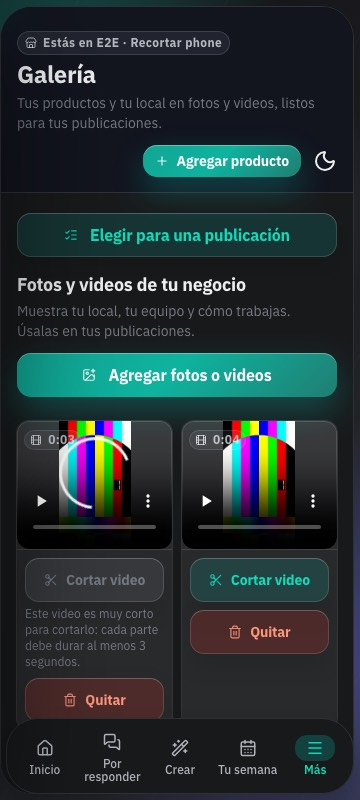
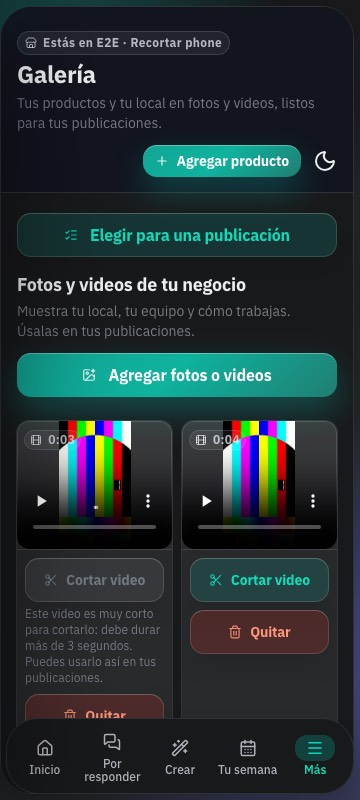
fix(galeria): apply reviews — half a second to leave out, the reason says what to do, singular stages for a trim (m-24976897)
UX review: a clip is cuttable from 3.5 s (one 3 s part plus half a second out),
so a tile reading 0:03 is never cuttable and 0:04 always is; the disabled reason
says it can still be used as is; an unknown length says so instead of «muy
corto»; the cutter's minimum names what may be shorter. Code review: a trim's
stages read in the singular; no empty aria-describedby.

diff --git a/Qualify/catalog_gallery_vm.py b/Qualify/catalog_gallery_vm.py
@@ -66,8 +66,11 @@ from qualify_creative.video import is_video_filename
 
 __all__ = [
     "ADD_LABEL",
+    "MIN_TRIM_MS",
+    "NO_LENGTH_TO_CUT_TEXT",
     "TOO_SHORT_TO_CUT_TEXT",
     "can_cut",
+    "cut_reason",
     "CUT_FAILED_NOTICE",
     "CUT_LEAVE_OK",
     "CUT_RETRY",
@@ -115,16 +118,30 @@ __all__ = [
 ]
 
 #: m-24976897: why «Cortar video» is disabled on a video that is too short to keep a
-#: part and leave something out (the minimum is the service's: `MIN_PART_MS`).
+#: part and leave something out (the minimum is the service's: `MIN_PART_MS`), and what
+#: the owner can still do with it (UX review).
 TOO_SHORT_TO_CUT_TEXT = (
-    f"Este video es muy corto para cortarlo: cada parte debe durar al menos "
-    f"{MIN_PART_MS // 1000} segundos."
+    f"Este video es muy corto para cortarlo: debe durar más de {MIN_PART_MS // 1000} "
+    "segundos. Puedes usarlo así en tus publicaciones."
 )
+NO_LENGTH_TO_CUT_TEXT = "No pudimos leer cuánto dura este video, por eso no se puede cortar."
+#: At least this much to leave out beyond one minimum part: half a second, so a clip
+#: that can be cut always reads «0:04» or more on its tile and one that cannot reads
+#: «0:03» (UX review: two «0:03» tiles, one cuttable, was a riddle), and the line — which
+#: moves a frame at a time — can always land between the minimum and the end.
+MIN_TRIM_MS = 500
 
 
 def can_cut(duration_ms: int | None) -> bool:
-    """Longer than one minimum part: one part can stay and something can go."""
-    return int(duration_ms or 0) > MIN_PART_MS
+    """One part of the minimum can stay and at least half a second can go."""
+    return duration_ms is not None and int(duration_ms) >= MIN_PART_MS + MIN_TRIM_MS
+
+
+def cut_reason(duration_ms: int | None) -> str:
+    """Why a ready video cannot be cut ("" when it can)."""
+    if duration_ms is None:
+        return NO_LENGTH_TO_CUT_TEXT
+    return "" if can_cut(duration_ms) else TOO_SHORT_TO_CUT_TEXT
 
 
 #: A video being cut (CM-4's text): the tile says it until media-worker is done.
@@ -431,9 +448,7 @@ def build_gallery_items(
                 # a trim is a cut: one part of 3 s and anything left out (m-24976897)
                 cuttable=is_video and can_cut(m.duration_ms),
                 cut_shown=is_video,
-                cut_reason=(
-                    TOO_SHORT_TO_CUT_TEXT if is_video and not can_cut(m.duration_ms) else ""
-                ),
+                cut_reason=cut_reason(m.duration_ms) if is_video else "",
             )
         )
     return items
@@ -451,25 +466,34 @@ def cut_done_text(parts: int) -> str:
     return f"Listo: tu video quedó en {parts} {'parte' if parts == 1 else 'partes'}."
 
 
-def cut_steps(status: str) -> list[dict[str, str]]:
+_ONE_PART_STAGES = {
+    STATUS_RUNNING: "Recortando tu video…",
+    STATUS_PARTS_SAVED: "Guardando tu video…",
+}
+
+
+def cut_steps(status: str, parts: int = 2) -> list[dict[str, str]]:
     """The three stages for `progress_panel`, the job's own status running."""
     order = [s for s, _ in CUT_STAGES]
     at = order.index(status) if status in order else len(order)
     return [
         {
-            "title": stage_text(s),
+            "title": stage_text(s, parts),
             "status": "done" if i < at else ("running" if i == at else "pending"),
         }
         for i, s in enumerate(order)
     ]
 
 
-def stage_text(status: str) -> str:
+def stage_text(status: str, parts: int = 2) -> str:
     """«Paso 2 de 3: Cortando las partes…» — the step counts even while a bar crawls
     (UX review)."""
     order = [s for s, _ in CUT_STAGES]
     i = order.index(status) if status in order else 0
-    return f"Paso {i + 1} de {len(order)}: {CUT_STAGES[i][1]}"
+    title = CUT_STAGES[i][1]
+    if parts == 1:
+        title = _ONE_PART_STAGES.get(order[i], title)
+    return f"Paso {i + 1} de {len(order)}: {title}"
 
 
 def build_cut_cards(
@@ -497,7 +521,7 @@ def build_cut_cards(
         else:
             phase, title = "active", cut_title(parts)
             detail = CUT_LEAVE_OK_ONE if parts <= 1 else CUT_LEAVE_OK
-            stage = stage_text(job.status)
+            stage = stage_text(job.status, parts)
         cards.append(
             CutCardVM(
                 job_id=str(job.id),
@@ -507,7 +531,7 @@ def build_cut_cards(
                 title=title,
                 detail=detail,
                 stage_text=stage,
-                steps=cut_steps(job.status) if phase == "active" else [],
+                steps=cut_steps(job.status, parts) if phase == "active" else [],
                 thumb_url=url_for(poster, "image") if poster else "",
                 part_thumbs=[url_for(k, "image") for k in part_keys] if phase == "done" else [],
             )

diff --git a/Qualify/test_catalog_gallery_vm.py b/Qualify/test_catalog_gallery_vm.py
@@ -239,6 +239,25 @@ def test_a_cuts_card_says_its_stage_then_how_it_ended() -> None:
     assert CUT_FAILED_NOTICE == "No pudimos cortar este video. Tu video original sigue igual."
 
 
+def test_a_trim_reads_in_the_singular() -> None:
+    (trim,) = build_cut_cards(
+        [
+            _Job(
+                UUID(int=60),
+                kind="cut",
+                status="running",
+                source_media_id=_VIDEO.id,
+                segments=((0, 3_000),),
+            )
+        ],
+        [_VIDEO],
+        _url,
+    )
+    assert trim.title == "Recortando tu video…"
+    assert trim.stage_text == "Paso 2 de 3: Recortando tu video…"
+    assert trim.steps[2]["title"] == "Paso 3 de 3: Guardando tu video…"
+
+
 def test_cut_copy_and_stages() -> None:
     assert cut_title(1) == "Recortando tu video…"
     assert cut_title(3) == "Cortando tu video en 3 partes…"
@@ -440,15 +459,18 @@ def test_the_services_per_file_three_waiting_refusal_adds_what_can_go_up() -> No
 
 
 def test_cortar_video_shows_on_every_ready_video_and_says_why_when_it_cannot() -> None:
-    """m-24976897: a trim is a cut — any video longer than one minimum part (3 s) can
-    be cut; a shorter one shows the button disabled with the reason. Boundaries just
-    under, at and over 3 s and 6 s (the old «two parts» rule)."""
-    from .catalog_gallery_vm import TOO_SHORT_TO_CUT_TEXT, can_cut
+    """m-24976897: a trim is a cut — a video that can keep one minimum part (3 s) and
+    leave at least half a second out can be cut; a shorter one shows the button
+    disabled with the reason. Boundaries just under, at and over 3 s, 3.5 s and 6 s
+    (the old «two parts» rule)."""
+    from .catalog_gallery_vm import NO_LENGTH_TO_CUT_TEXT, TOO_SHORT_TO_CUT_TEXT, can_cut
 
     for ms, ok in (
         (2_999, False),
         (3_000, False),
-        (3_001, True),
+        (3_001, False),
+        (3_499, False),
+        (3_500, True),
         (3_900, True),
         (5_999, True),
         (6_000, True),
@@ -459,12 +481,15 @@ def test_cortar_video_shows_on_every_ready_video_and_says_why_when_it_cannot() -
         assert can_cut(ms) is ok, ms
         assert (tile.cut_shown, tile.cuttable) == (True, ok), ms
         assert tile.cut_reason == ("" if ok else TOO_SHORT_TO_CUT_TEXT), ms
+        # what the tile reads agrees: «0:03» never cuttable, «0:04» always
+        assert (tile.duration == "0:03") is (not ok) or ms < 3_000 or ms >= 4_500, ms
     assert TOO_SHORT_TO_CUT_TEXT == (
-        "Este video es muy corto para cortarlo: cada parte debe durar al menos 3 segundos."
+        "Este video es muy corto para cortarlo: debe durar más de 3 segundos. "
+        "Puedes usarlo así en tus publicaciones."
     )
-    # a video without a known length cannot be cut, and says so; a photo has no button
+    # a video without a known length cannot be cut, and says why; a photo has no button
     unknown = _Media(UUID(int=51), "video", "gallery/x/51/video.mp4", "p.jpg", None)
     (tile,) = build_gallery_items([unknown], [], _url)
-    assert not tile.cuttable and tile.cut_reason == TOO_SHORT_TO_CUT_TEXT
+    assert not tile.cuttable and tile.cut_reason == NO_LENGTH_TO_CUT_TEXT
     (photo,) = build_gallery_items([_PHOTO], [], _url)
     assert not photo.cut_shown and photo.cut_reason == ""

diff --git a/Qualify/catalog_gallery_state.py b/Qualify/catalog_gallery_state.py
@@ -59,6 +59,7 @@ from .catalog_gallery_provider import (
 )
 from .catalog_gallery_vm import (
     CUT_LEAVE_OK,
+    CUT_LEAVE_OK_ONE,
     CUT_STAGES,
     GALLERY_FULL_TEXT,
     MAX_WAITING_VIDEOS,
@@ -220,12 +221,16 @@ class CatalogGalleryState(rx.State):
     @rx.var
     def panel_detail(self) -> str:
         card = self._panel_card()
-        return card.detail if card is not None else CUT_LEAVE_OK
+        if card is not None:
+            return card.detail
+        return CUT_LEAVE_OK_ONE if self._panel_parts == 1 else CUT_LEAVE_OK
 
     @rx.var
     def panel_steps(self) -> list[dict[str, str]]:
         card = self._panel_card()
-        return card.steps if card is not None else cut_steps(CUT_STAGES[0][0])
+        if card is not None:
+            return card.steps
+        return cut_steps(CUT_STAGES[0][0], self._panel_parts or 2)
 
     @rx.var
     def panel_thumbs(self) -> list[str]:

diff --git a/Qualify/test_catalog_cut_vm.py b/Qualify/test_catalog_cut_vm.py
@@ -146,7 +146,11 @@ def test_a_trim_is_a_cut_one_part_kept_and_the_rest_left_out() -> None:
     single kept span the service accepts."""
     from .catalog_cut_vm import MIN_PART_HINT, remove_part, save_blocker, start
 
-    assert MIN_PART_HINT.startswith(PART_TOO_SHORT_TEXT)
+    # the same sentence «Guardar partes» answers with, then what may be shorter
+    assert MIN_PART_HINT == (
+        "Cada parte debe durar al menos 3 segundos; la que quites puede ser más corta."
+    )
+    assert MIN_PART_HINT.startswith(PART_TOO_SHORT_TEXT[:-1])
     spans, reason = cut_at(start(3_900), 3_000)
     assert reason == "" and save_blocker(spans, 3_900) == PART_TOO_SHORT_TEXT
     trimmed = remove_part(spans, 2)

diff --git a/Qualify/catalog_gallery_page.py b/Qualify/catalog_gallery_page.py
@@ -416,7 +416,9 @@ def _tile(item: rx.Var[GalleryItemVM]) -> rx.Component:
                         on_click=CatalogCutState.open_cut(item.media_id),
                         disabled=G.busy | ~item.cuttable,
                         aria_label="Cortar " + item.remove_label,
-                        aria_describedby=rx.cond(item.cut_reason != "", "cut-why-" + item.key, ""),
+                        aria_describedby=rx.cond(
+                            item.cut_reason != "", "cut-why-" + item.key, None
+                        ),
                     ),
                     rx.cond(
                         item.cut_reason != "",

diff --git a/Qualify/catalog_cut_vm.py b/Qualify/catalog_cut_vm.py
@@ -84,7 +84,7 @@ CUT_TITLE = "Corta tu video en partes"
 CUT_HELP = "Mueve la línea hasta donde quieres cortar y toca «Cortar aquí»."
 #: m-24976897: the minimum, in view from the start — the same sentence «Guardar partes»
 #: answers with when a kept part is shorter; what is left out may be shorter.
-MIN_PART_HINT = f"{PART_TOO_SHORT_TEXT} Lo que quites puede durar menos."
+MIN_PART_HINT = f"{PART_TOO_SHORT_TEXT[:-1]}; la que quites puede ser más corta."
 CUT_HERE = "Cortar aquí"
 PREV_FRAME = "Atrás"
 NEXT_FRAME = "Adelante"
